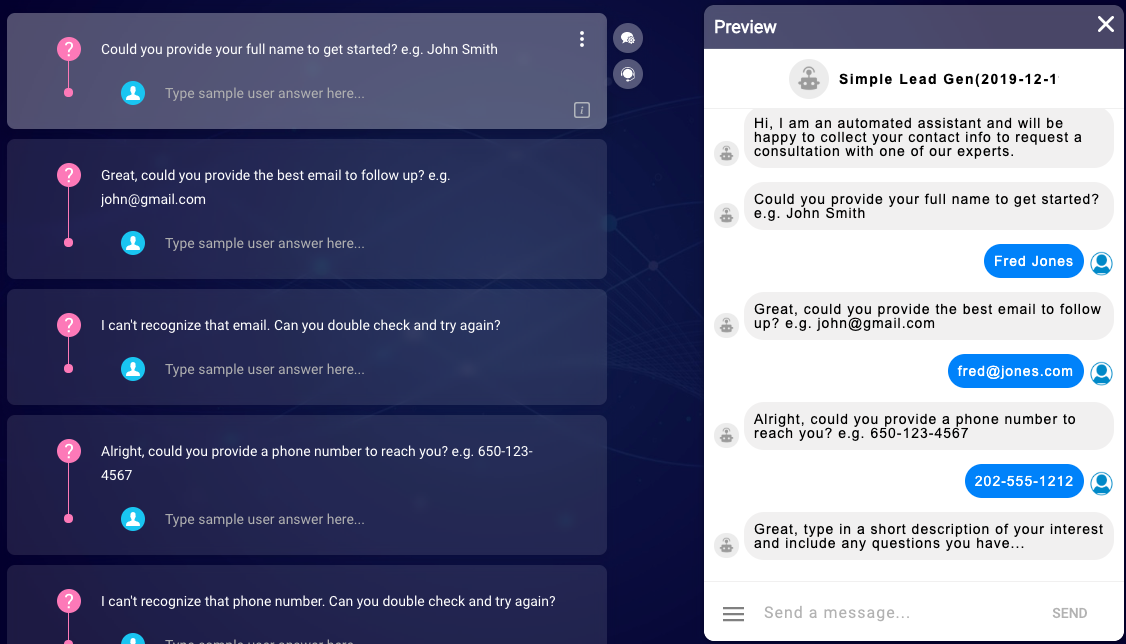
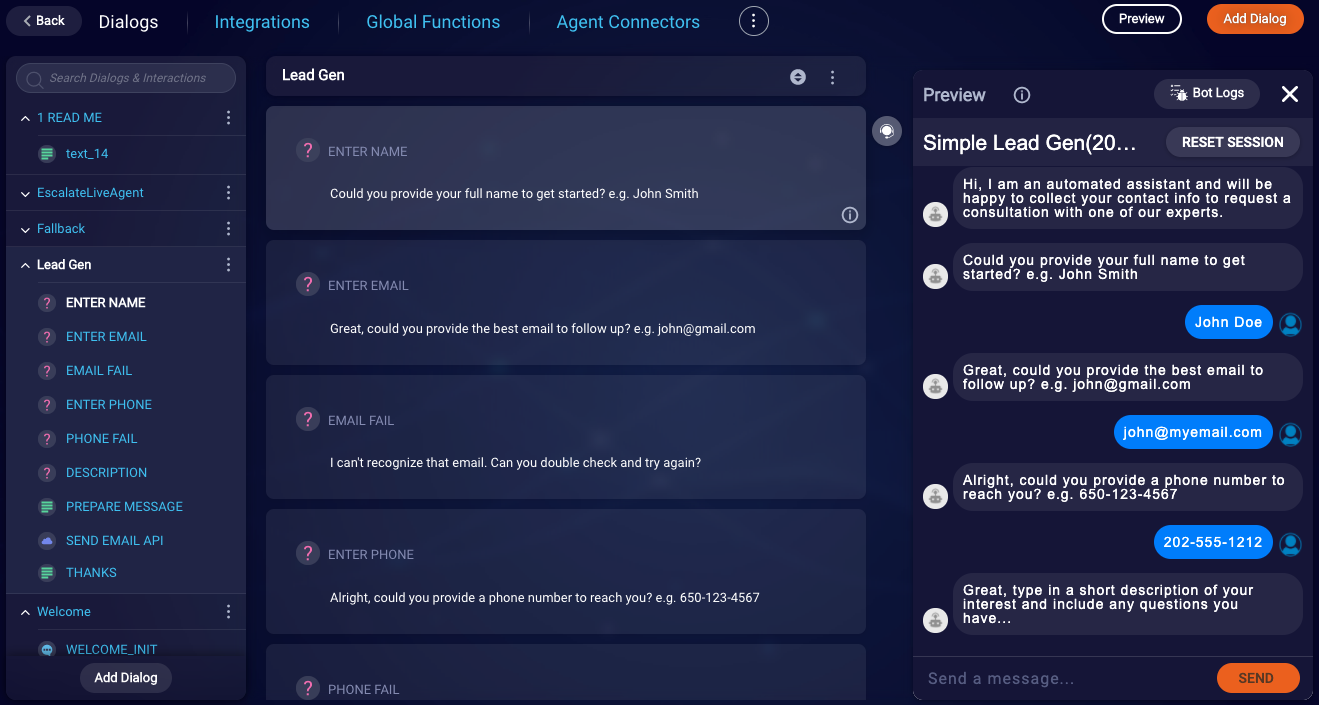
Update topic for Dialog Editor 2.0

diff --git a/pages/documents/ConversationalAI/ConversationBuilder/BotTemplates/SimpleLeadGen.md b/pages/documents/ConversationalAI/ConversationBuilder/BotTemplates/SimpleLeadGen.md
@@ -15,9 +15,9 @@ The Simple Lead Gen template is designed to capture contact information from a c
 
 The template uses text interactions only, so it can be deployed to any channel without modification. Escalation to an agent is also included.
 
-<img class="fancyimage" style="width:800px" src="img/ConvoBuilder/template_simple_lead_image_0.png">
+<img class="fancyimage" style="width:1000px" src="img/ConvoBuilder/template_simple_lead_image_0.png">
 
-### Included Items
+### Included items
 
 #### Dialogs
 
@@ -38,17 +38,13 @@ The template uses text interactions only, so it can be deployed to any channel w
 * Send_Email
     * This integration will send an email to the ownerEmail address supplied which contains all of the collected fields from the LeadGen dialog.
 
-### Configuration Needed
+### Configuration needed
 
-#### General Dialog Customization
+#### General dialog customization
 
-You will want to review each of the dialogs, starting with Welcome and Lead Gen, and customize the verbiage used to greet your customer and request their details.
+You will want to review each of the dialogs, starting with Welcome and Lead Gen, and customize the verbiage used to greet your customer and request their details. This is done simply by editing the text copy of the interactions and hitting Enter or using the menu to Save.
 
-This is done simply by editing the text copy of the interactions and hitting Enter or using the menu to Save.
-
-<img class="fancyimage" style="width:600px" src="img/ConvoBuilder/template_simple_lead_image_1.png">
-
-#### Lead Gen Dialog
+#### Lead Gen dialog
 
 The name, email and phone number steps of the LeadGen dialog are performing some level of validation on the user’s response using RegEx. You can supply your own RegEx if you prefer.
 
@@ -60,11 +56,11 @@ setVariable('maxEmailInvalidAttempts', 2);
 setVariable('maxPhoneInvalidAttempts', 2);
 ```
 
-If you want to remove some of the lead gen capture interactions (eg: phone number), you will need to be sure to review the **Next Step** navigation so that the previous interaction will go to the next interaction in the dialog.
+If you want to remove some of the lead gen capture interactions (e.g., phone number), you will need to be sure to review the **Next Action** navigation so that the previous interaction will go to the next interaction in the dialog.
 
-#### Email Integration
+#### Email integration
 
-Click on the "Global Functions" button to access all the Global functions & variables to be configured.
+Click **Global Functions** to access all the Global functions and variables to be configured.
 
 The Send to Email integration is enabled by default. If you would like to use this, modify the following values:
 
@@ -95,7 +91,7 @@ The Send to Email integration is enabled by default. If you would like to use th
 </tbody>
 </table>
 
-#### Agent Escalation
+#### Agent escalation
 
 If the user requests an agent or if they reach the max invalid attempts on email or phone, they will be escalated to a Liveperson Agent.
 
